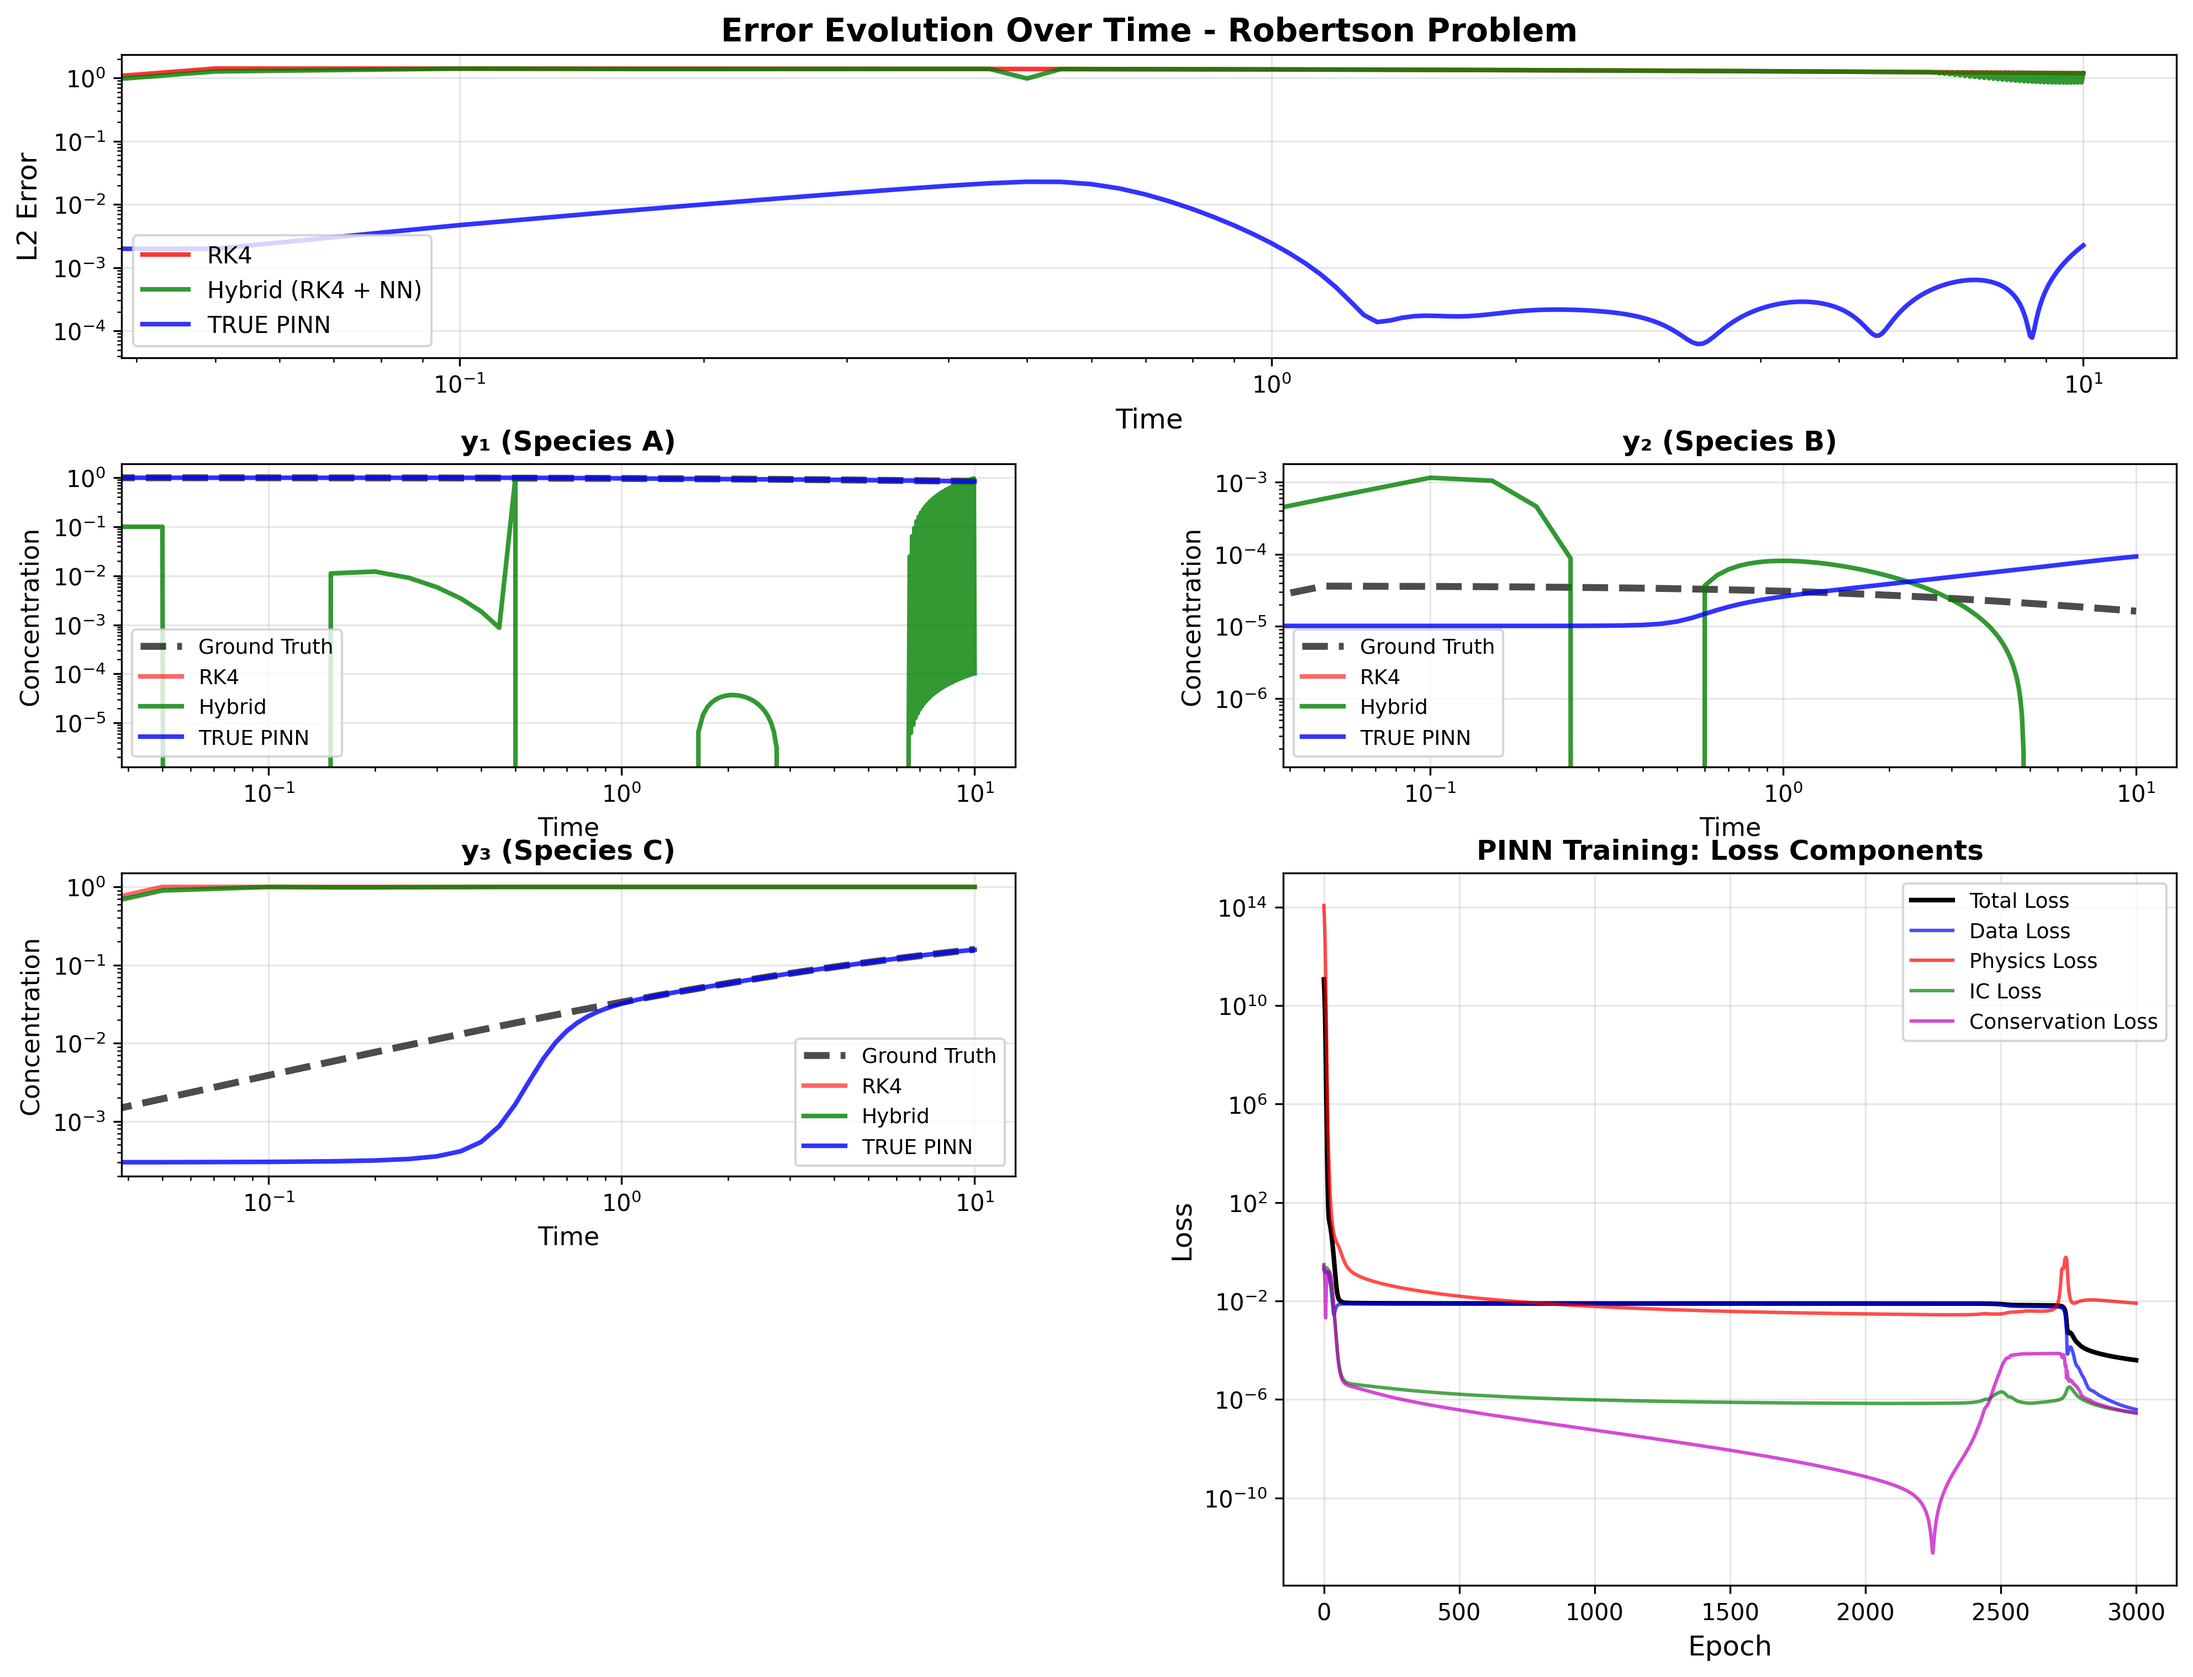
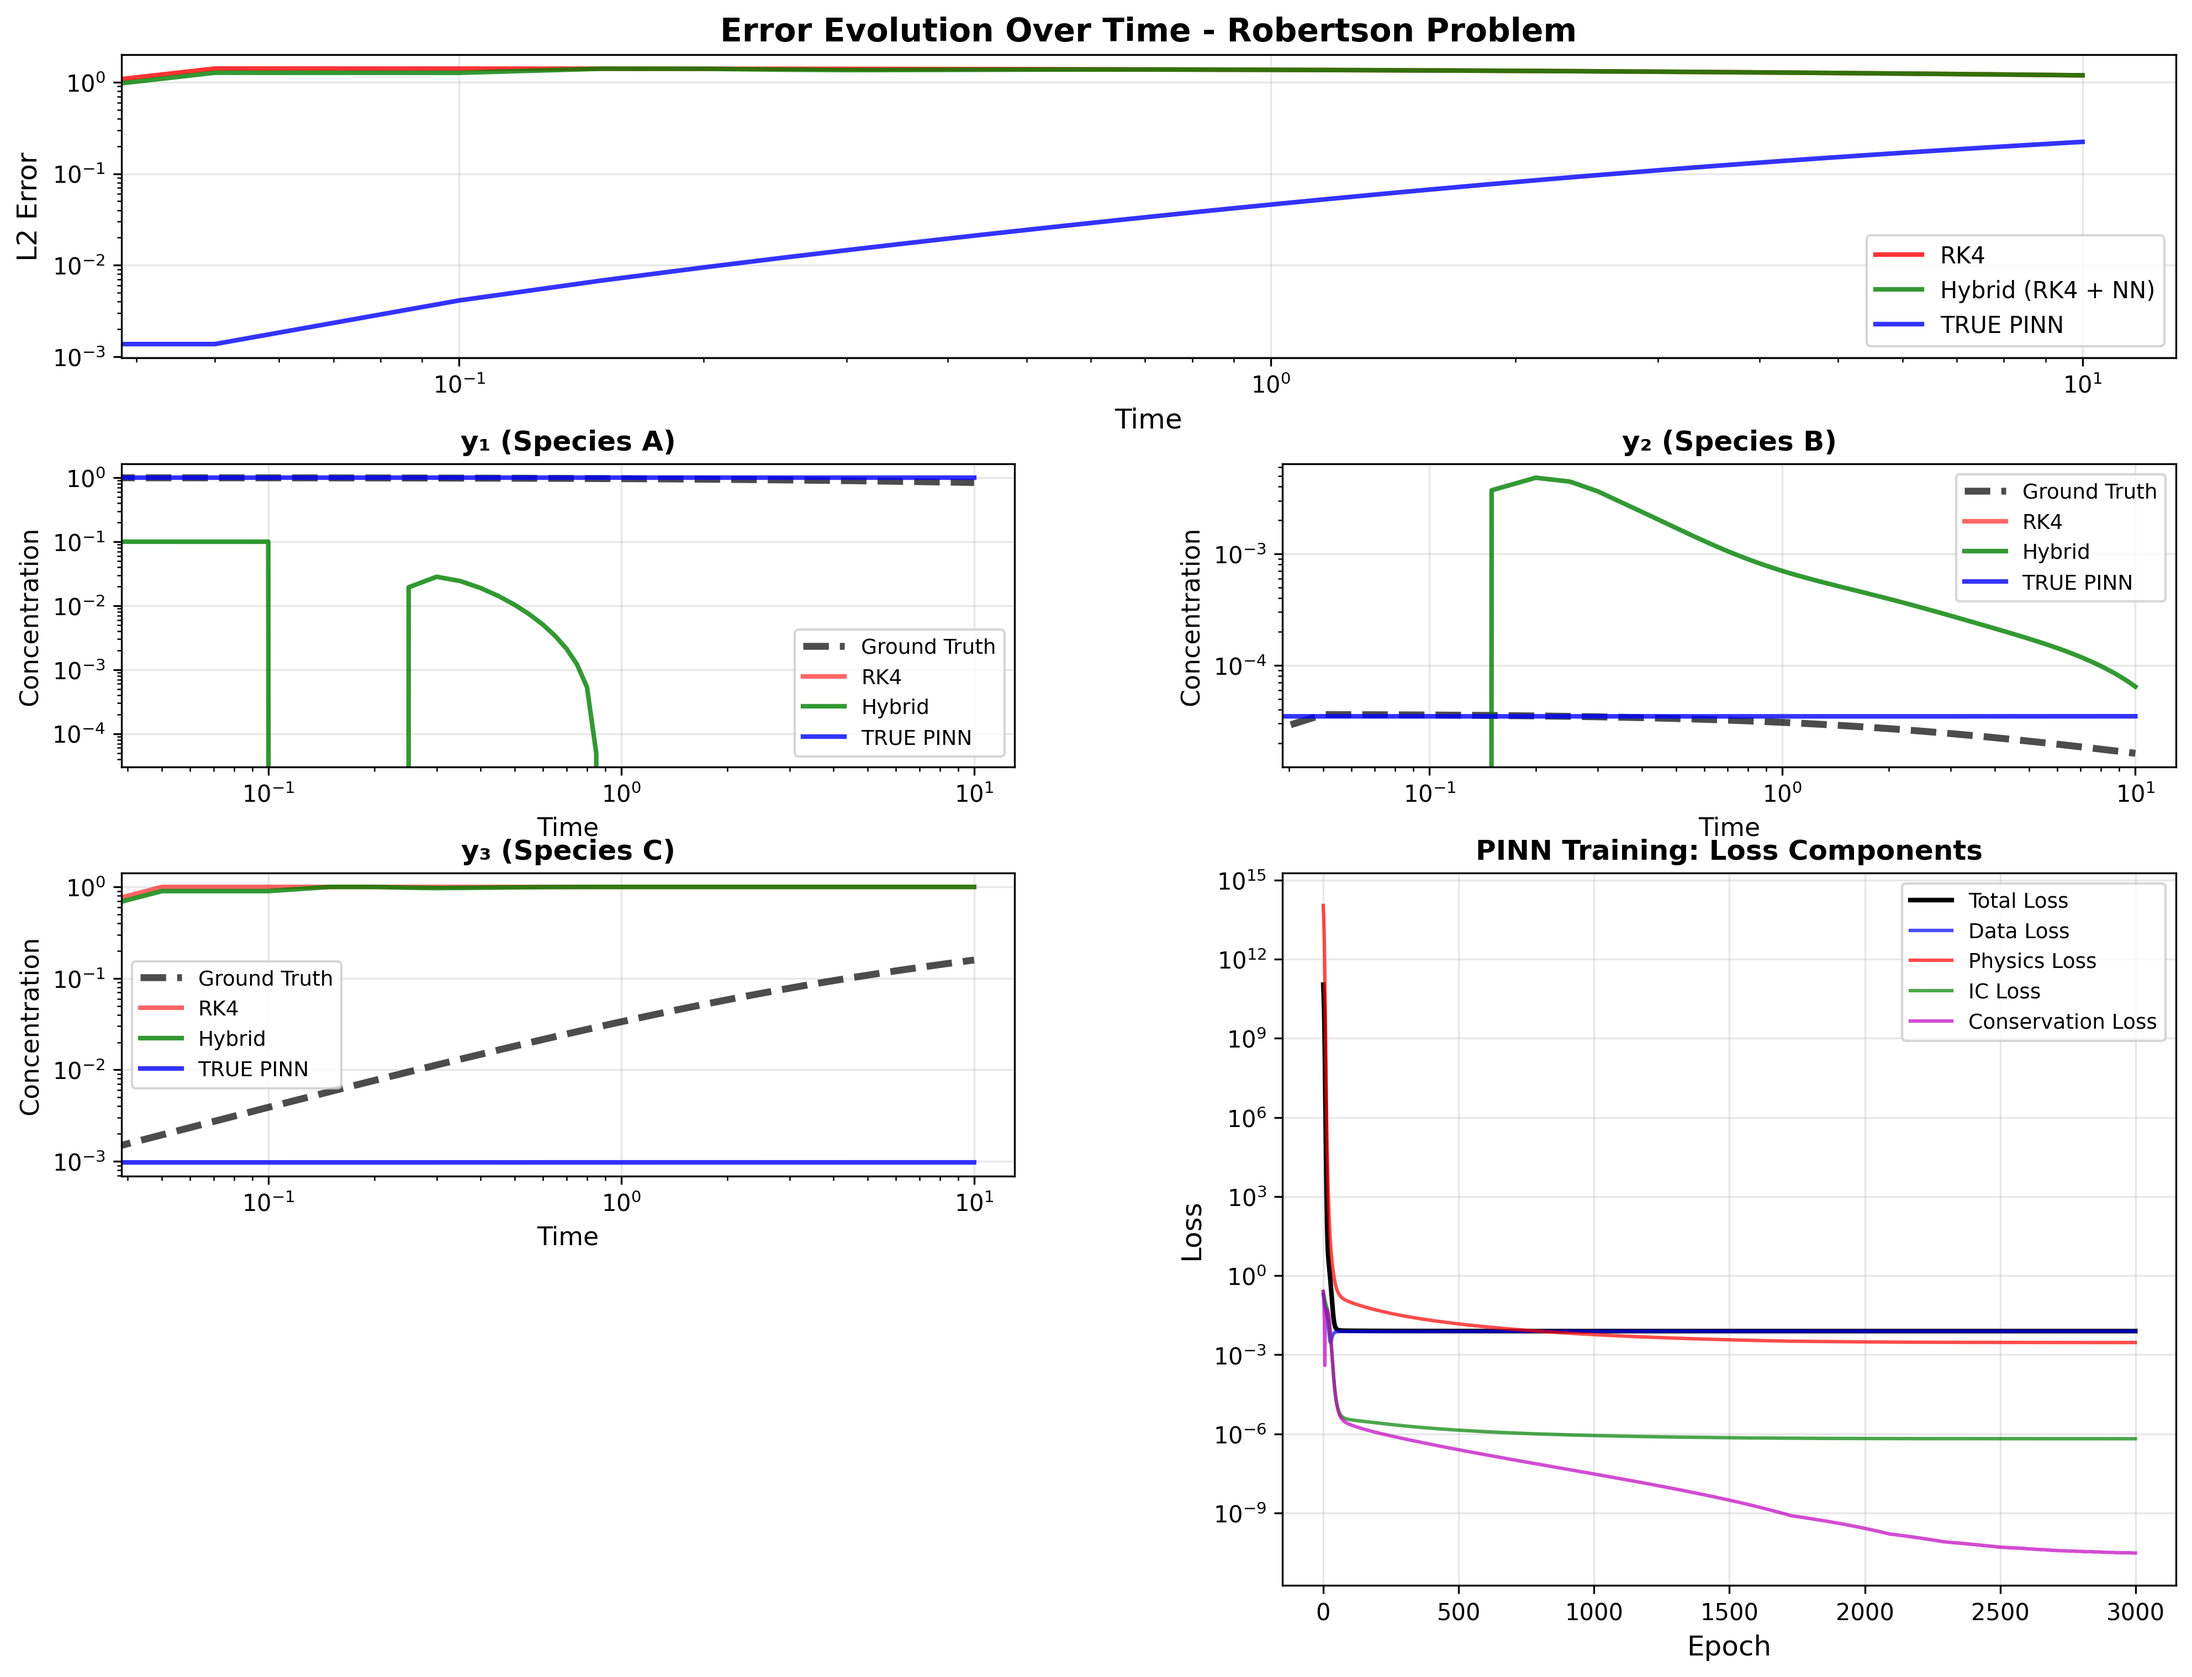
new improvement

diff --git a/vanderpol/hybrid_solver_VanDerPol_better.py b/vanderpol/hybrid_solver_VanDerPol_better.py
@@ -457,15 +457,15 @@ def plot_results(results):
     ax.set_yscale('log')
     
     plt.tight_layout()
-    plt.savefig('hybrid_solver_with_true_pinn.png', dpi=300, bbox_inches='tight')
-    print("\n✓ Saved figure as 'hybrid_solver_with_true_pinn.png'")
+    plt.savefig('hybrid_solver_with_true_pinn_better.png', dpi=300, bbox_inches='tight')
+    print("\n✓ Saved figure as 'hybrid_solver_with_true_pinn_better.png'")
     plt.show()
 
 # Run everything
 if __name__ == "__main__":
     results = run_experiment(
-        mu=2.5,           
-        dt=0.25,          
+        mu=25.0,           
+        dt=0.05,          
         t_max=20.0,       
         n_samples=25000   
     )

diff --git a/robertson/hybrid_solver_robertson.py b/robertson/hybrid_solver_robertson.py
@@ -567,7 +567,7 @@ if __name__ == "__main__":
     results = run_experiment(
         dt=0.05,          
         t_max=10.0,       
-        n_samples=30000   
+        n_samples=25000   
     )
     
     plot_results(results)
